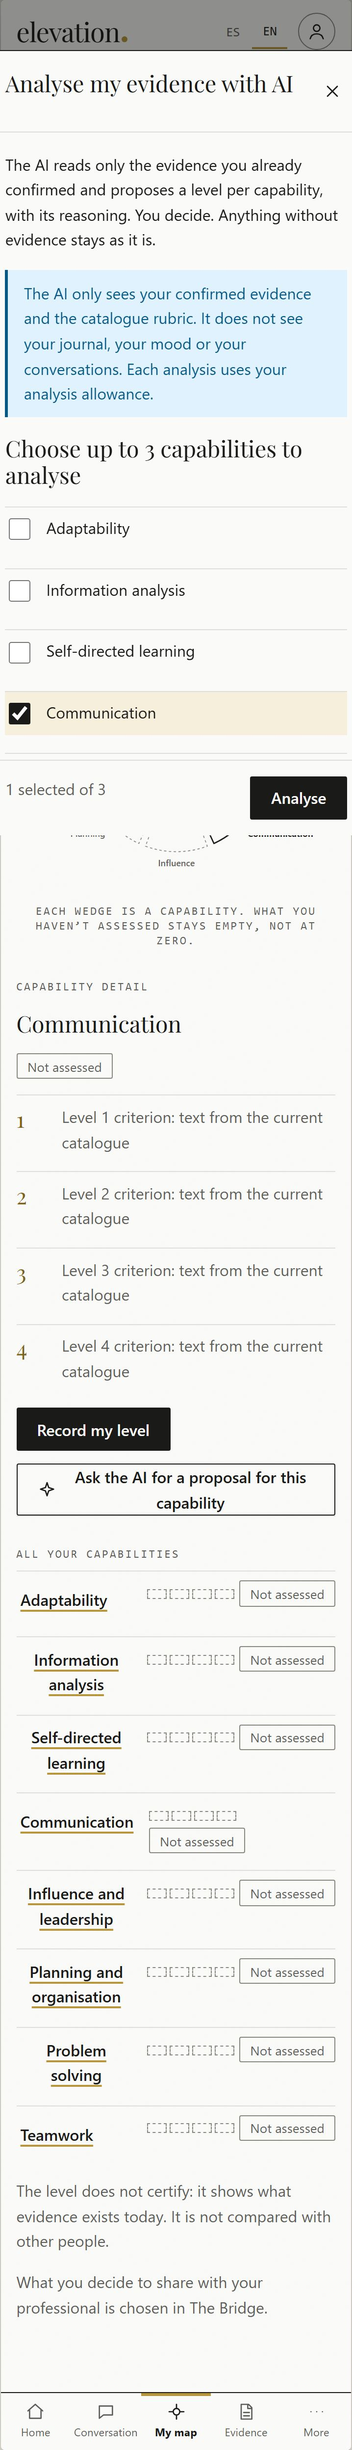
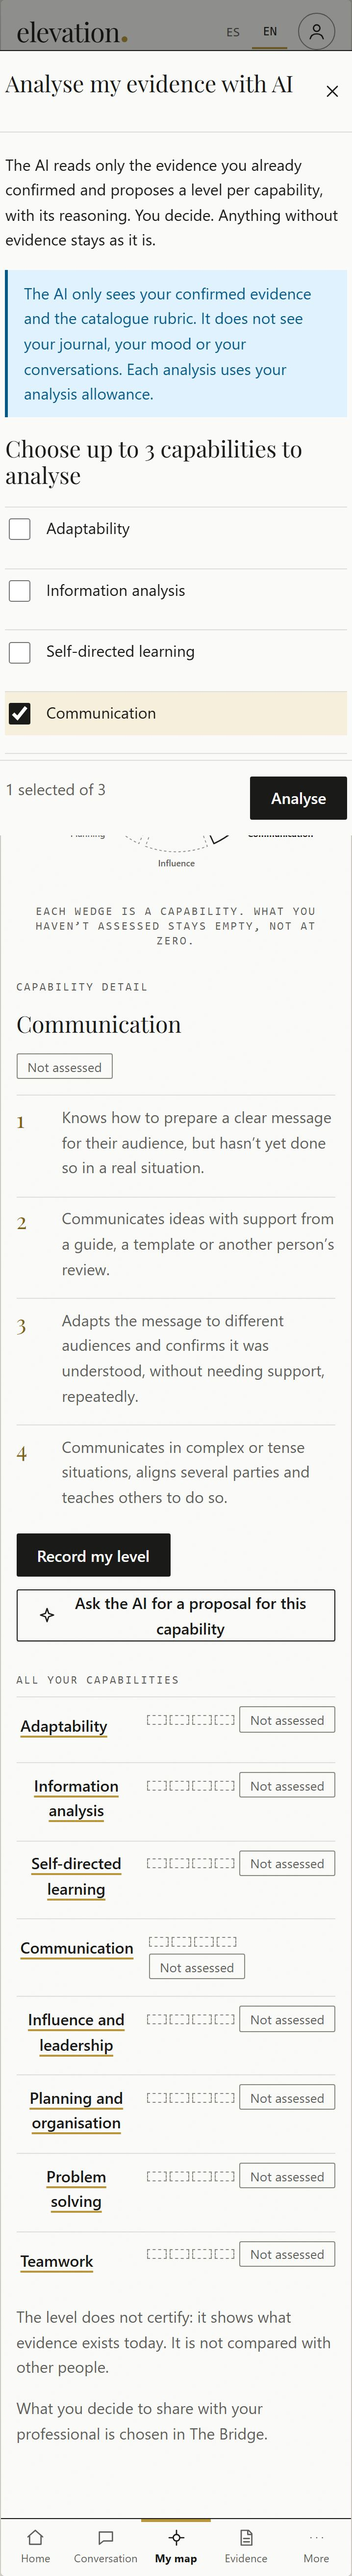
ES-148: flujo real con escritura en staging (evidencia, nivel, plan), hallazgos H-41 a H-47 y ajustes del prototipo

diff --git a/e2e/tests/auditoria-escritura.spec.ts b/e2e/tests/auditoria-escritura.spec.ts
@@ -1,0 +1,126 @@
+import { test, type Page } from '@playwright/test'
+import { mkdirSync, writeFileSync, existsSync } from 'node:fs'
+import { join, resolve } from 'node:path'
+import { resolveBaseUrl } from '../lib/target'
+
+// ES-148 · Auditoría con ESCRITURA en staging (aprobada por Mauricio el 3-nov-2026): una evidencia sintética confirmada, un nivel registrado y retirado,
+// y una solicitud de plan. Cuenta de persona SINTÉTICA, texto inocuo. Solo corre con E2E_ESCRITURA=1. No llama a la IA (no usa el análisis con IA).
+const OUT = resolve(__dirname, '..', '..', 'docs', 'ux', 'capturas', 'escritura')
+const STATE = resolve(__dirname, '..', '.auth', 'USER.json')
+const obs: { paso: string; ok: boolean; ms: number; nota?: string }[] = []
+const shot = async (p: Page, n: string) => {
+  await p.evaluate(() => { const w = document.createTreeWalker(document.body, NodeFilter.SHOW_TEXT); for (let x = w.nextNode(); x; x = w.nextNode()) if (/@/.test(x.nodeValue ?? '')) x.nodeValue = (x.nodeValue ?? '').replace(/[\w.+-]+@[\w.-]+\.\w+/g, 'persona@ejemplo.test') }).catch(() => {})
+  await p.screenshot({ path: join(OUT, n + '.jpg'), type: 'jpeg', quality: 78, fullPage: true })
+}
+async function paso(p: Page, nombre: string, fn: () => Promise<void>, nota?: () => Promise<string>) {
+  const t0 = Date.now()
+  try { await fn(); obs.push({ paso: nombre, ok: true, ms: Date.now() - t0, nota: nota ? await nota() : undefined }) }
+  catch (e) { obs.push({ paso: nombre, ok: false, ms: Date.now() - t0, nota: String((e as Error).message).split('\n')[0] }) }
+}
+
+test('Escritura en staging: evidencia, nivel y solicitud de plan', async ({ browser }) => {
+  test.skip(process.env.E2E_ESCRITURA !== '1', 'Fase 1: requiere E2E_ESCRITURA=1 (aprobado por Mauricio).')
+  test.skip(!existsSync(STATE), 'Falta la sesión de persona.')
+  test.setTimeout(8 * 60_000)
+  mkdirSync(OUT, { recursive: true })
+  const ctx = await browser.newContext({ baseURL: resolveBaseUrl(), viewport: { width: 1280, height: 900 }, storageState: STATE })
+  await ctx.addInitScript(() => localStorage.setItem('elv_lang', 'es'))
+  const p = await ctx.newPage()
+  p.setDefaultTimeout(8000)
+  const apiLog: string[] = []
+  p.on('response', (r) => { if (r.url().includes('/api/') && ['POST', 'PUT', 'PATCH', 'DELETE'].includes(r.request().method())) apiLog.push(`${r.request().method()} ${new URL(r.url()).pathname} → ${r.status()}`) })
+
+  // 1) Evidencia
+  await paso(p, 'Abrir «Nueva evidencia»', async () => { await p.goto('/app/evidence/new', { waitUntil: 'domcontentloaded' }); await p.locator('#title').waitFor(); await shot(p, '01-evidencia-vacia') },
+    async () => `campos visibles: ${await p.locator('form input, form textarea, form select').count()}`)
+  await paso(p, 'Llenar los campos obligatorios', async () => {
+    await p.fill('#title', 'Coordinación de turnos de logística (prueba)')
+    await p.fill('#situation', 'Prueba de auditoría de diseño con datos ficticios: un equipo de logística necesitaba reorganizar sus turnos.')
+    await p.fill('#responsibility', 'Yo propuse y coordiné el nuevo calendario de turnos (texto ficticio).')
+    await p.fill('#actions-0', 'Reuní las restricciones del equipo y armé el calendario (texto ficticio).')
+    await p.fill('#delivered', 'Un calendario de turnos aceptado por el equipo (texto ficticio).')
+    await p.getByLabel('Lo conozco', { exact: true }).check()
+    await p.fill('#effectText', 'El equipo usó el calendario durante el mes (texto ficticio).')
+    await p.selectOption('#autonomy', 'autonomous')
+    await shot(p, '02-evidencia-llena')
+  })
+  await paso(p, 'Guardar borrador', async () => { await p.getByRole('button', { name: 'Guardar borrador' }).click(); await p.waitForTimeout(1500); await shot(p, '03-borrador-guardado') }, async () => (await p.locator('[role=status],[role=alert]').allInnerTexts()).join(' | ').slice(0, 200))
+  await paso(p, 'Revisar para confirmar', async () => { await p.getByRole('button', { name: 'Revisar para confirmar' }).click(); await p.waitForTimeout(600); await shot(p, '04-revisar') })
+  await paso(p, 'Confirmar evidencia', async () => {
+    await p.getByLabel('He revisado esta evidencia.').check()
+    await p.getByRole('button', { name: 'Confirmar evidencia' }).click(); await p.waitForTimeout(1800); await shot(p, '05-evidencia-confirmada')
+  }, async () => (await p.locator('[role=status],[role=alert]').allInnerTexts()).join(' | ').slice(0, 200))
+
+  // 2) Nivel en el mapa
+  await paso(p, 'Abrir el mapa y elegir una capacidad', async () => {
+    await p.goto('/app/skill-map', { waitUntil: 'domcontentloaded' }); await p.waitForLoadState('networkidle', { timeout: 7000 }).catch(() => {})
+    await shot(p, '06-mapa-con-evidencia')
+    const cap = p.getByRole('button', { name: /^Comunicación/ }).first(); await cap.focus(); await p.keyboard.press('Enter'); await p.waitForTimeout(500); await shot(p, '07-capacidad-elegida')
+  })
+  await paso(p, 'Registrar mi nivel (3 pasos)', async () => {
+    await p.getByRole('button', { name: 'Registrar mi nivel' }).first().click(); await p.waitForTimeout(800); await shot(p, '08-registrar-nivel-formulario')
+    await p.locator('input[type=checkbox]').first().check()
+    await p.locator('input[name="skill-map-level"]').nth(1).check()
+    await p.fill('#skill-map-note', 'Nota de prueba (ficticia).')
+    await shot(p, '09-registrar-nivel-lleno')
+    await p.getByRole('button', { name: 'Guardar mi nivel' }).click(); await p.waitForTimeout(2000); await shot(p, '10-nivel-guardado')
+  }, async () => (await p.locator('[role=status],[role=alert]').allInnerTexts()).join(' | ').slice(0, 200))
+  await paso(p, 'Retirar mi nivel', async () => {
+    await p.getByRole('button', { name: 'Retirar mi nivel' }).first().click(); await p.waitForTimeout(500); await shot(p, '11-retirar-confirmacion')
+    await p.getByRole('button', { name: 'Sí, retirar' }).click(); await p.waitForTimeout(1800); await shot(p, '12-nivel-retirado')
+  })
+
+  // 3) Solicitud de plan
+  await paso(p, 'Ver planes con sesión', async () => { await p.goto('/pricing', { waitUntil: 'domcontentloaded' }); await p.waitForLoadState('networkidle', { timeout: 7000 }).catch(() => {}); await shot(p, '13-planes') })
+  await paso(p, 'Solicitar un plan', async () => {
+    await p.getByRole('button', { name: /Solicitar este plan/ }).first().click(); await p.waitForTimeout(400); await shot(p, '14-solicitar-paso-1')
+    const confirm = p.getByRole('button', { name: /Enviar solicitud|Confirmar/ }); if (await confirm.count()) { await confirm.first().click() }
+    await p.waitForTimeout(2000); await shot(p, '15-solicitud-resultado')
+  }, async () => (await p.locator('[role=status],[role=alert]').allInnerTexts()).join(' | ').slice(0, 300))
+  await paso(p, 'Plan en el panel tras la solicitud', async () => { await p.goto('/app/dashboard', { waitUntil: 'domcontentloaded' }); await p.waitForLoadState('networkidle', { timeout: 7000 }).catch(() => {}); await shot(p, '16-panel-despues') })
+
+  writeFileSync(join(OUT, 'observaciones.json'), JSON.stringify({ pasos: obs, llamadasDeEscritura: apiLog }, null, 1))
+  await ctx.close()
+})
+
+// Fase 2: completar el borrador existente (editar → revisar → confirmar) y registrar/retirar un nivel. No crea más evidencias ni solicitudes.
+test('Escritura fase 2: completar el borrador, confirmarlo y registrar/retirar un nivel', async ({ browser }) => {
+  const FASE = process.env.E2E_ESCRITURA
+  test.skip(FASE !== '2' && FASE !== '3', 'Fase 2/3: requiere E2E_ESCRITURA=2 o 3.')
+  test.skip(!existsSync(STATE), 'Falta la sesión de persona.')
+  test.setTimeout(8 * 60_000)
+  mkdirSync(OUT, { recursive: true })
+  obs.length = 0
+  const ctx = await browser.newContext({ baseURL: resolveBaseUrl(), viewport: { width: 1280, height: 900 }, storageState: STATE })
+  await ctx.addInitScript(() => localStorage.setItem('elv_lang', 'es'))
+  const p = await ctx.newPage(); p.setDefaultTimeout(8000)
+  const apiLog: string[] = []
+  p.on('response', (r) => { if (r.url().includes('/api/') && ['POST', 'PUT', 'PATCH', 'DELETE'].includes(r.request().method())) apiLog.push(`${r.request().method()} ${new URL(r.url()).pathname} → ${r.status()}`) })
+  const status = async () => (await p.locator('[role=status],[role=alert]').allInnerTexts()).join(' | ').slice(0, 250)
+  await paso(p, 'Abrir el borrador para editarlo', async () => { await p.goto('/app/evidence', { waitUntil: 'domcontentloaded' }); await p.getByRole('link', { name: 'Editar' }).first().click(); await p.locator('#title').waitFor(); await shot(p, '20-editar-borrador') })
+  if (FASE === '2') await paso(p, 'Completar efecto observado y autonomía', async () => {
+    await p.getByLabel('Lo conozco', { exact: true }).check()
+    await p.fill('#effectText', 'El equipo usó el calendario durante el mes (texto ficticio).')
+    await p.selectOption('#autonomy', 'autonomous'); await shot(p, '21-borrador-completo')
+  })
+  if (FASE === '2') await paso(p, 'Guardar y revisar para confirmar', async () => {
+    const save = p.getByRole('button', { name: /Guardar borrador|Guardar/ }); if (await save.count()) { await save.first().click(); await p.waitForTimeout(1500); await shot(p, '22-tras-guardar') }
+  }, status)
+  await paso(p, 'Confirmar evidencia', async () => {
+    const rev = p.getByRole('button', { name: 'Revisar para confirmar' }); if (await rev.count()) { await rev.click(); await p.waitForTimeout(500); await shot(p, '23-revisar') }
+    await p.getByLabel('He revisado esta evidencia.').check(); await p.getByRole('button', { name: 'Confirmar evidencia' }).click(); await p.waitForTimeout(1800); await shot(p, '24-confirmada')
+  }, status)
+  await paso(p, 'Mapa: capacidad y registrar nivel', async () => {
+    await p.goto('/app/skill-map', { waitUntil: 'domcontentloaded' }); await p.waitForLoadState('networkidle', { timeout: 7000 }).catch(() => {}); await shot(p, '25-mapa-con-evidencia')
+    const cap = p.getByRole('button', { name: /^Comunicación/ }).first(); await cap.focus(); await p.keyboard.press('Enter'); await p.waitForTimeout(500); await shot(p, '26-capacidad-elegida')
+    await p.getByRole('button', { name: 'Registrar mi nivel' }).first().click(); await p.waitForTimeout(900); await shot(p, '27-registrar-nivel')
+    await p.locator('input[type=checkbox]').first().check(); await p.locator('input[name="skill-map-level"]').nth(1).check(); await p.fill('#skill-map-note', 'Nota de prueba (ficticia).'); await shot(p, '28-nivel-lleno')
+    await p.getByRole('button', { name: 'Guardar mi nivel' }).click(); await p.waitForTimeout(2000); await shot(p, '29-nivel-guardado')
+  }, status)
+  await paso(p, 'Retirar mi nivel', async () => {
+    await p.getByRole('button', { name: 'Retirar mi nivel' }).first().click(); await p.waitForTimeout(500); await shot(p, '30-retirar-confirmacion')
+    await p.getByRole('button', { name: 'Sí, retirar' }).click(); await p.waitForTimeout(1800); await shot(p, '31-nivel-retirado')
+  })
+  writeFileSync(join(OUT, 'observaciones-fase' + FASE + '.json'), JSON.stringify({ pasos: obs, llamadasDeEscritura: apiLog }, null, 1))
+  await ctx.close()
+})

diff --git a/docs/ux/diseno-final/app.js b/docs/ux/diseno-final/app.js
@@ -35,6 +35,9 @@ const SAMPLE = {
   ],
 };
 const REPLIES = () => SAMPLE[S.lang].filter(x => x[0] === 'ai').map(x => x[1]);
+const RUBRIC = { 3: { es: ['Conoce cómo preparar un mensaje claro para su audiencia, pero aún no lo ha hecho en una situación real.', 'Comunica ideas con apoyo de una guía, una plantilla o la revisión de otra persona.', 'Adapta el mensaje a distintas audiencias y confirma que fue entendido, sin necesitar apoyo, de forma repetida.', 'Comunica en situaciones complejas o de tensión, alinea a varias partes y enseña a otras personas a hacerlo.'],
+  en: ['Knows how to prepare a clear message for their audience, but hasn’t yet done so in a real situation.', 'Communicates ideas with support from a guide, a template or another person’s review.', 'Adapts the message to different audiences and confirms it was understood, without needing support, repeatedly.', 'Communicates in complex or tense situations, aligns several parties and teaches others to do so.'] } }
+const rubric = (i, n) => RUBRIC[i] ? RUBRIC[i][S.lang][n - 1] : t('lv.rubric.ph', { n })
 const AUTONOMY = ['conceptual', 'assisted', 'autonomous', 'leads'];
 
 /* ---------- iconos y caras ---------- */
@@ -168,7 +171,7 @@ function detail() {
   const i = S.sel, lv = S.levels[i];
   return `<div class="stack"><span class="mono">${t('map.detail')}</span><h2 class="d3" tabindex="-1" id="capname">${CAPS[S.lang][i]}</h2>
 <p>${lv ? `<span class="chip on">${t('map.level', { n: lv.level })}</span> <span class="chip">${t('map.source.evid')}</span>` : `<span class="chip">${t('map.status.none')}</span>`}</p>
-<ol class="ladder" aria-label="${t('map.rubric')}">${[1, 2, 3, 4].map(n => `<li class="${lv?.level === n ? 'cur' : ''}"><b>${n}</b><span class="sub">${t('lv.rubric.ph', { n })}</span></li>`).join('')}</ol>
+<ol class="ladder" aria-label="${t('map.rubric')}">${[1, 2, 3, 4].map(n => `<li class="${lv?.level === n ? 'cur' : ''}"><b>${n}</b><span class="sub">${rubric(i, n)}</span></li>`).join('')}</ol>
 <div class="row"><button class="btn p" type="button" data-act="openlevel">${t(lv ? 'lv.change' : 'lv.open')}</button>${lv ? `<button class="btn d" type="button" data-act="retire">${t('lv.retire')}</button>` : ''}<button class="btn" type="button" data-act="openai">${ico('spark')}${t('ai.open_skill')}</button></div></div>`;
 }
 V.map = () => app(`${head(t('map.title'), t('map.sub'))}
@@ -179,7 +182,7 @@ ${Object.keys(S.levels).length ? `<div class="row"><button class="btn sm d" type
 
 /* ---- evidencias ---- */
 V.evidence = () => app(`${head(t('ev.title'), t('ev.sub'), `<div><button class="btn p" type="button" data-act="newev">${ico('plus')}${t('ev.new')}</button></div>`)}
-${S.evid.length ? S.evid.map(e => `<div class="rowline" style="grid-template-columns:7rem 1fr auto"><span class="mono">${e.status === 'confirmed' ? t('ev.list.confirmed') : t('ev.list.draft')}</span><span><b>${esc(e.title)}</b>${e.demo ? ' ' + demo('ejemplo', 'example') : ''}</span><span class="chip ${e.status === 'confirmed' ? 'on' : ''}">${e.status === 'confirmed' ? ico('check') : ''}${e.status === 'confirmed' ? t('ev.counts') : t('ev.notcounts')}</span></div>`).join('') : `<div class="empty"><h2 class="d3">${t('ev.empty.title')}</h2><p class="sub">${t('ev.empty.body')}</p><button class="btn p" type="button" data-act="newev">${t('ev.new')}</button></div>`}`);
+${S.evid.length ? S.evid.map(e => `<div class="rowline" style="grid-template-columns:7rem 1fr auto"><span class="mono">${e.status === 'confirmed' ? t('ev.list.confirmed') : t('ev.list.draft')}</span><span><b>${esc(e.title)}</b>${e.demo ? ' ' + demo('ejemplo', 'example') : ''}</span>${e.status === 'confirmed' ? `<span class="chip on">${ico('check')}${t('ev.counts')}</span>` : `<button class="btn sm p" type="button" data-act="confirmdraft" data-v="${e.id}">${t('ev.review.confirm')}</button>`}</div>`).join('') : `<div class="empty"><h2 class="d3">${t('ev.empty.title')}</h2><p class="sub">${t('ev.empty.body')}</p><button class="btn p" type="button" data-act="newev">${t('ev.new')}</button></div>`}`);
 
 /* ---- planes ---- */
 const reqTimeline = () => { const st = S.req === 'none' ? -1 : S.req === 'pending' ? 1 : 2;
@@ -227,7 +230,7 @@ function lvDrawer() {
   let body;
   if (!ev.length) body = `<div class="empty"><h3 class="d3">${t('lv.none.title')}</h3><p class="sub">${t('lv.none.text')}</p><button class="btn p" type="button" data-act="newev">${t('lv.none.cta')}</button></div>`;
   else if (n === 1) body = `<span class="mono">01 / 03</span><h3 class="d3">${t('lv.s1', { max })}</h3>${ev.map(e => `<label class="opt"><input type="checkbox" data-in="LV.ev" value="${e.id}" ${d.ev.includes(e.id) ? 'checked' : ''}><span><b>${esc(e.title)}</b> ${e.demo ? demo('ejemplo', 'example') : ''}<br><small class="sub">${t('lv.ev.meta')}</small></span></label>`).join('')}<a class="btn t" href="#evidence" style="align-self:flex-start">${t('lv.see')}</a>`;
-  else if (n === 2) body = `<span class="mono">02 / 03</span><h3 class="d3">${t('lv.s2')}</h3>${[1, 2, 3, 4].map(k => `<label class="opt"><input type="radio" name="lv" data-in="LV.level" value="${k}" ${d.level === k ? 'checked' : ''}><span><b class="d3">${t('map.level', { n: k })}</b><br><span class="sub">${t('lv.rubric.ph', { n: k })}</span></span></label>`).join('')}<p class="sub">${t('lv.rubric.src', { v: 1 })}</p>`;
+  else if (n === 2) body = `<span class="mono">02 / 03</span><h3 class="d3">${t('lv.s2')}</h3>${[1, 2, 3, 4].map(k => `<label class="opt"><input type="radio" name="lv" data-in="LV.level" value="${k}" ${d.level === k ? 'checked' : ''}><span><b class="d3">${t('map.level', { n: k })}</b><br><span class="sub">${rubric(i, k)}</span></span></label>`).join('')}<p class="sub">${t('lv.rubric.src', { v: 1 })}${RUBRIC[i] ? ' ' + demo('texto del catálogo de staging (EN: traducción del prototipo)', 'staging catalogue text (EN: prototype translation)') : ''}</p>`;
   else body = `<span class="mono">03 / 03</span><h3 class="d3">${t('lv.s3')}</h3><div class="fld"><label for="ln">${t('lv.note')}</label><textarea id="ln" data-in="LV.note" maxlength="500">${esc(d.note)}</textarea><small>${d.note.length} / 500</small></div><div class="note"><b>${t('lv.summary')}</b>${CAPS[S.lang][i]} · ${t('map.level', { n: d.level })} · ${d.ev.length} ${t('lv.ev.count')}</div><p class="note warn" role="note">${t('lv.warn')}</p>`;
   const canNext = n === 1 ? d.ev.length >= 1 : n === 2 ? d.level !== null : true;
   return drawer(`${t('lv.open')} · ${CAPS[S.lang][i]}`, t('lv.intro'), body, ev.length ? `<button class="btn" type="button" data-act="lvstep" data-v="${n - 1}" ${n === 1 ? 'disabled' : ''}>${t('btn.back')}</button>${n < 3 ? `<button class="btn p" type="button" data-act="lvstep" data-v="${n + 1}" ${canNext ? '' : 'disabled'}>${t('btn.next')}${ico('ar', 'ar')}</button>` : `<button class="btn p" type="button" data-act="lvsave">${t('lv.save')}</button>`}` : `<button class="btn" type="button" data-act="close">${t('btn.cancel')}</button>`);
@@ -306,6 +309,7 @@ const ACT = {
   edstep: v => { S.ED.step = Math.min(3, Math.max(1, Number(v))); render() },
   eddraft: () => { const d = S.ED; S.evid.push({ id: S.evid.length + 10, title: d.title || L('Borrador sin título', 'Untitled draft'), status: 'draft' }); S.overlay = ''; toast(t('ev.saved.draft')) },
   edconfirm: () => { const d = S.ED; S.evid.push({ id: S.evid.length + 10, title: d.title, status: 'confirmed' }); if (d.fromChat >= 0) S.saved[d.fromChat] = true; S.overlay = ''; toast(t('ev.saved')) },
+  confirmdraft: v => { const e = S.evid.find(x => x.id === Number(v)); if (e) e.status = 'confirmed'; toast(t('ev.saved')) },
   sel: v => { S.sel = Number(v); render() },
   openlevel: () => { openLv(); render() }, lvstep: v => { S.LV.step = Math.min(3, Math.max(1, Number(v))); render() },
   lvsave: () => { S.levels[S.sel] = { level: S.LV.level, ev: S.LV.ev, note: S.LV.note }; S.overlay = ''; toast(t('lv.saved')) },

diff --git a/docs/ux/diseno-final/copy-extra.js b/docs/ux/diseno-final/copy-extra.js
@@ -55,6 +55,7 @@
 ['ev.autonomy.help','Es autorreporte, no una certificación de capacidad.','This is self-report, not a skill certification.','repo'],
 ['ev.list.confirmed','Confirmada','Confirmed','nuevo'],
 ['ev.list.draft','Borrador','Draft','nuevo'],
+['ev.review.confirm','Revisar y confirmar','Review and confirm','nuevo'],
 ['ev.counts','Cuenta para tu mapa','Counts toward your map','nuevo'],
 ['ev.notcounts','No cuenta todavía','Doesn’t count yet','nuevo'],
 ['ev.saved.draft','Borrador guardado. No cuenta para tu mapa hasta que lo confirmes.','Draft saved. It doesn’t count toward your map until you confirm it.','nuevo'],
@@ -83,7 +84,7 @@
 ['lv.note','Nota (opcional, hasta 500 caracteres)','Note (optional, up to 500 characters)','repo'],
 ['lv.rubric.ph','Criterio del nivel {n}: texto del catálogo vigente','Level {n} criterion: text from the current catalogue','nuevo'],
 ['lv.rubric.src','Criterios del catálogo vigente (versión {v}).','Criteria from the current catalogue (version {v}).','repo'],
-['lv.ev.meta','Confirmada · versión 1','Confirmed · version 1','repo'],
+['lv.ev.meta','Confirmada','Confirmed','ajuste'],
 ['lv.ev.count','evidencia(s)','evidence item(s)','nuevo'],
 ['lv.see','Ver o añadir en «Evidencias»','View or add in “Evidence”','repo'],
 ['lv.summary','Resumen','Summary','nuevo'],

diff --git a/docs/ux/INFORME-AMPLIACION.md b/docs/ux/INFORME-AMPLIACION.md
@@ -7,7 +7,7 @@ UX-Claude · 3-nov-2026 (tarde) · Staging, cuentas sintéticas. Continúa [INFO
 
 | Pregunta | Respuesta (con su base) |
 |---|---|
-| **¿Cómo se marcan las aptitudes y se registran los niveles?** | Hay tres pasos y dos caminos. Camino manual: en «Evidencias» la persona cuenta una experiencia (situación, su parte, acciones, lo entregado, efecto observado, autonomía) y **la confirma**; en «Mi mapa» elige una capacidad → «Registrar mi nivel» → (1) elige de 1 a 8 evidencias confirmadas, (2) elige nivel 1–4 leyendo el criterio del catálogo, (3) nota opcional de hasta 500 caracteres; si luego edita o borra esa evidencia, el nivel deja de mostrarse. Camino con IA: «Analizar mi evidencia con IA» → elige capacidades → la IA propone un nivel con su razón → la persona acepta, **baja**, deja sin evaluar o no guarda (**nunca sube**); la propuesta vence a los 10 minutos. *Base: código (`SelfAssessPanel.tsx`, `skill-map/copy.ts`, `evidence/FormFields.tsx`); **no ejecutado** porque no se aprobó escribir evidencias (ver §6).* |
+| **¿Cómo se marcan las aptitudes y se registran los niveles?** | Hay tres pasos y dos caminos. Camino manual: en «Evidencias» la persona cuenta una experiencia (situación, su parte, acciones, lo entregado, efecto observado, autonomía) y **la confirma**; en «Mi mapa» elige una capacidad → «Registrar mi nivel» → (1) elige de 1 a 8 evidencias confirmadas, (2) elige nivel 1–4 leyendo el criterio del catálogo, (3) nota opcional de hasta 500 caracteres; si luego edita o borra esa evidencia, el nivel deja de mostrarse. Camino con IA: «Analizar mi evidencia con IA» → elige capacidades → la IA propone un nivel con su razón → la persona acepta, **baja**, deja sin evaluar o no guarda (**nunca sube**); la propuesta vence a los 10 minutos. *Base: código (`SelfAssessPanel.tsx`, `skill-map/copy.ts`, `evidence/FormFields.tsx`) **y ejecutado de punta a punta en staging** con aprobación de Mauricio (§7): evidencia → confirmada → nivel 2 registrado → retirado.* |
 | **¿Cuál es el formulario de registro de cada persona cuando va a hacer la compra?** | **No existe un formulario de compra ni una pasarela de pago.** El registro pide solo **nombre, correo y contraseña** (con una lista de reglas de contraseña en vivo) y no tiene casillas de consentimiento ni enlace a la política de privacidad. «Comprar» hoy es **solicitar un plan**: botón «Solicitar este plan» → queda «en revisión» y **un administrador la aprueba**; no se piden datos de pago. *Base: ejecutado en staging (capturas de registro y planes; medida: 3 campos, 0 casillas) y código (`pricing/plans.ts`, `backend/routes/auth.js`).* |
 | **¿Cómo veo mis planes?** | Hoy: en el panel hay una tarjeta «Mi plan» (Gratis · Básico · mensajes de IA/día 10 · sesiones/mes 0) con «Ver planes →», que lleva a `/pricing` (otra pantalla con otro marco visual). No hay una pantalla «Mi plan» con el plan actual, el uso y el estado de la solicitud juntos. *Base: ejecutado (capturas del panel y de `/pricing` con sesión).* |
 | **¿Cómo se ven los mensajes de la persona y la respuesta de la IA?** | Mensaje de la persona: bloque negro alineado a la derecha; respuesta: bloque beige a la izquierda con «✦ ELEVATION», en **texto plano** (el formato Markdown aparece sin interpretar). *Base: ejecutado con **4 llamadas reales** a la IA aprobadas por Mauricio; capturas en `capturas/chat-real/`.* |
@@ -54,7 +54,8 @@ Qué se hizo: una persona sintética envió 4 mensajes inocuos (sin datos person
 
 ## 4. Lo que no se puede concluir todavía
 
-- **Qué ocurre al enviar** un registro, una evidencia, un nivel o una solicitud de plan: no se hizo (no hay aprobación de escritura para eso; solo se aprobaron los 4 mensajes de chat).
+- **Qué ocurre al enviar un registro de cuenta**: no se hizo (crearía una cuenta). Evidencia, nivel y solicitud de plan sí se ejecutaron (§7).
+- **El análisis con IA** (propuesta de nivel): no se ejecutó; gasta presupuesto de IA y no estaba aprobado.
 - **Reglas reales de cupo y de precio**: no verificadas (ES-73 D-01). Los números del prototipo («10 mensajes por día», «4 %») son los que muestra la cuenta de staging, marcados como ejemplo.
 - **Calidad de la IA en otros casos** (crisis, temas sensibles, mensajes largos, inyección de instrucciones): no se probó; son pruebas de QA con plan aprobado.
 - **El texto de los criterios de cada nivel** (rúbrica del catálogo): se desconoce en esta auditoría; el diseño deja un hueco para el texto del catálogo.
@@ -66,5 +67,24 @@ Cada hallazgo de este documento está resuelto o planteado en el prototipo [dise
 ## 6. Aprobaciones de Mauricio usadas en esta ampliación
 
 - Aprobado y usado: **hasta 4 mensajes reales al chat** (se usaron 4).
-- **No** aprobado (por eso no se ejecutó): crear una evidencia sintética y registrar un nivel; enviar una solicitud de plan.
-- Efecto en staging de lo ejecutado: 8 turnos (4 de la persona y 4 del asistente) en el historial de la cuenta sintética de persona; el uso de IA de esa cuenta pasó de 4 % a 21 %.
+- Aprobado y usado después («Aprobar pruebas»): una evidencia sintética confirmada, registrar y retirar un nivel, y una solicitud de plan (§7).
+- **No** aprobado: el análisis con IA y la creación de cuentas.
+- Efecto en staging: 8 turnos en el historial de la persona sintética (uso de IA de 4 % a 21 %); **1 evidencia confirmada (versión 3)**; un nivel registrado y retirado; **1 solicitud de plan en revisión que la interfaz no permite cancelar**.
+
+## 7. Flujo real con escritura en staging (aprobado por Mauricio)
+
+Capturas y registro de llamadas: `capturas/escritura/` (`observaciones.json`, `observaciones-fase2.json`, `observaciones-fase3.json`). Texto de la evidencia: ficticio e inocuo. No se usó el análisis con IA.
+
+**Lo que se comprobó que funciona:** guardar un borrador (201), editarlo (crea una versión nueva y conserva las anteriores), confirmarlo, registrar un nivel con el criterio del catálogo (201), ver el radar y el panel de la capacidad actualizados al instante, retirar el nivel con confirmación (200) y volver a «Sin evaluar». Los criterios por nivel existen y son claros (ej. Comunicación, nivel 1 a 4, texto del catálogo de staging).
+
+| ID | Sev. | Hallazgo | Evidencia | Recomendación |
+|---|---|---|---|---|
+| **H-41** | Alta | **«Validado» después de registrar uno mismo el nivel.** Al guardar, la capacidad pasa a «**Validado** · Fuente: Evidencia aportada» aunque no hay revisión humana («Sin revisión humana», confianza del respaldo «Baja»). «Validado» sugiere que alguien lo comprobó, y choca con «el nivel no certifica». | `29-nivel-guardado.jpg` | Usar «Con evidencia» (sin «Validado»). **Es la misma contradicción de ES-114**: decisión del PO. |
+| **H-42** | Alta | **Después de «Guardar borrador» no se ve cómo confirmar.** Queda una vista de solo lectura titulada «Nueva evidencia» o «Editar evidencia», con «Borrador guardado» y sin acción siguiente; «Revisar para confirmar» solo está dentro del formulario de edición. Hizo falta repetir el camino (editar → revisar → confirmar) para lograrlo. | `03-borrador-guardado.jpg`, `22-tras-guardar.jpg`, `23-revisar.jpg` | Tras guardar: botón «Revisar y confirmar» visible junto al estado «Borrador». |
+| **H-43** | Alta | **La solicitud de plan se envía con un solo clic, sin pantalla de revisión, y no se puede cancelar.** El mensaje «Tu solicitud quedó registrada…» aparece arriba, lejos del botón; el otro plan queda con un botón gris sin explicación. | `14-solicitar-paso-1.jpg`, `15-solicitud-resultado.jpg` | Confirmación previa («Revisa tu solicitud: qué pasa después, no se cobra aquí») y acción «Cancelar solicitud» mientras esté en revisión. |
+| **H-44** | Media | **Las versiones se filtran a la persona**: una sola evidencia aparece como «versión 3» (v1 borrador, v2 editado, v3 confirmado). | `27-registrar-nivel.jpg` («Confirmada · versión 3») | Mostrar la fecha y el estado; dejar las versiones para «Ver historial». |
+| **H-45** | Media | **El detalle de la capacidad queda al final de la página**, debajo de la lista, lejos del radar donde se hizo clic; al elegir no pasa nada visible en pantalla. | `26-capacidad-elegida.jpg` | Panel a un lado del radar (escritorio) o que se abra encima (móvil), con el foco puesto en él. |
+| **H-46** | Media | **Encuadre de carencia**: «Un punto donde puedes mejorar» con el criterio del nivel siguiente y un botón «Registrar mi nivel» (que registraría el nivel que aún no se tiene). | `29-nivel-guardado.jpg` | «Siguiente nivel posible» y un solo paso: «Añadir evidencia». Nunca un botón que registre sin respaldo. |
+| **H-47** | Baja | **Concordancia**: «evidencia suficiente para 1 capacidades». | `29-nivel-guardado.jpg` | Plural correcto («1 capacidad»). |
+
+**Efecto de esta ronda sobre el diseño:** el prototipo ya cubre H-42 (acción «Revisar y confirmar» tras guardar), H-43 (confirmación previa; la cancelación queda como decisión de producto), H-44 (sin versiones), H-45 (panel de detalle junto al radar) y H-46/H-47. H-41 sigue ligado a la decisión **ES-114**.

diff --git a/docs/ux/TEXTOS-FINALES-ES-EN.md b/docs/ux/TEXTOS-FINALES-ES-EN.md
@@ -385,6 +385,7 @@ Los marcadores `{n}`, `{date}`, `{pct}`, `{a}`, `{b}` son variables que rellena 
 | `ev.autonomy.help` | Es autorreporte, no una certificación de capacidad. | This is self-report, not a skill certification. | se conserva (ya existe) |
 | `ev.list.confirmed` | Confirmada | Confirmed | nuevo |
 | `ev.list.draft` | Borrador | Draft | nuevo |
+| `ev.review.confirm` | Revisar y confirmar | Review and confirm | nuevo |
 | `ev.counts` | Cuenta para tu mapa | Counts toward your map | nuevo |
 | `ev.notcounts` | No cuenta todavía | Doesn’t count yet | nuevo |
 | `ev.saved.draft` | Borrador guardado. No cuenta para tu mapa hasta que lo confirmes. | Draft saved. It doesn’t count toward your map until you confirm it. | nuevo |
@@ -416,7 +417,7 @@ Los marcadores `{n}`, `{date}`, `{pct}`, `{a}`, `{b}` son variables que rellena 
 | `lv.note` | Nota (opcional, hasta 500 caracteres) | Note (optional, up to 500 characters) | se conserva (ya existe) |
 | `lv.rubric.ph` | Criterio del nivel {n}: texto del catálogo vigente | Level {n} criterion: text from the current catalogue | nuevo |
 | `lv.rubric.src` | Criterios del catálogo vigente (versión {v}). | Criteria from the current catalogue (version {v}). | se conserva (ya existe) |
-| `lv.ev.meta` | Confirmada · versión 1 | Confirmed · version 1 | se conserva (ya existe) |
+| `lv.ev.meta` | Confirmada | Confirmed | se ajusta (existe) |
 | `lv.ev.count` | evidencia(s) | evidence item(s) | nuevo |
 | `lv.see` | Ver o añadir en «Evidencias» | View or add in “Evidence” | se conserva (ya existe) |
 | `lv.summary` | Resumen | Summary | nuevo |
@@ -525,7 +526,7 @@ Los marcadores `{n}`, `{date}`, `{pct}`, `{a}`, `{b}` son variables que rellena 
 | `pl.sent` | Solicitud enviada. Está en revisión. | Request submitted. It is under review. | se ajusta (existe) |
 
 ## Resumen
-Total: 405 textos · se conservan 201 · se ajustan 69 · nuevos 135.
+Total: 406 textos · se conservan 200 · se ajustan 70 · nuevos 136.
 
 ## Textos existentes que este diseño **retira o reemplaza** (hallazgos del informe)
 | Hoy (frontend/src/i18n u otras pantallas) | Problema | Reemplazo |

diff --git a/e2e/README.md b/e2e/README.md
@@ -65,3 +65,4 @@ Variables útiles: `E2E_ONLY=PUBLICO|USER|THERAPIST|ADMIN|SUPERADMIN`, `E2E_LANG
 - `scripts/generar-textos.mjs`: genera `docs/ux/TEXTOS-FINALES-ES-EN.md` desde `docs/ux/diseno-final/copy.js`.
 - `tests/auditoria-chat.spec.ts`: chat REAL con la IA (gasta presupuesto y escribe turnos en la persona sintética de staging). **Solo corre con `E2E_CHAT_MAX=N`** (aprobado por Mauricio: hasta 4 el 3-nov-2026). `scripts/leer-historial-chat.mjs` resume el historial guardado por API (solo lectura, sin IA).
 - `tests/auditoria-registro-planes.spec.ts`: formulario de registro (sin enviarlo) y `/pricing` sin sesión y con sesión de persona. Solo lectura.
+- `tests/auditoria-escritura.spec.ts`: ESCRITURA en staging con la persona sintética (aprobado por Mauricio el 3-nov-2026): evidencia sintética → confirmar → registrar y retirar un nivel; solicitud de plan. **Solo con `E2E_ESCRITURA=1|2|3`** (fases). No usa la IA.
